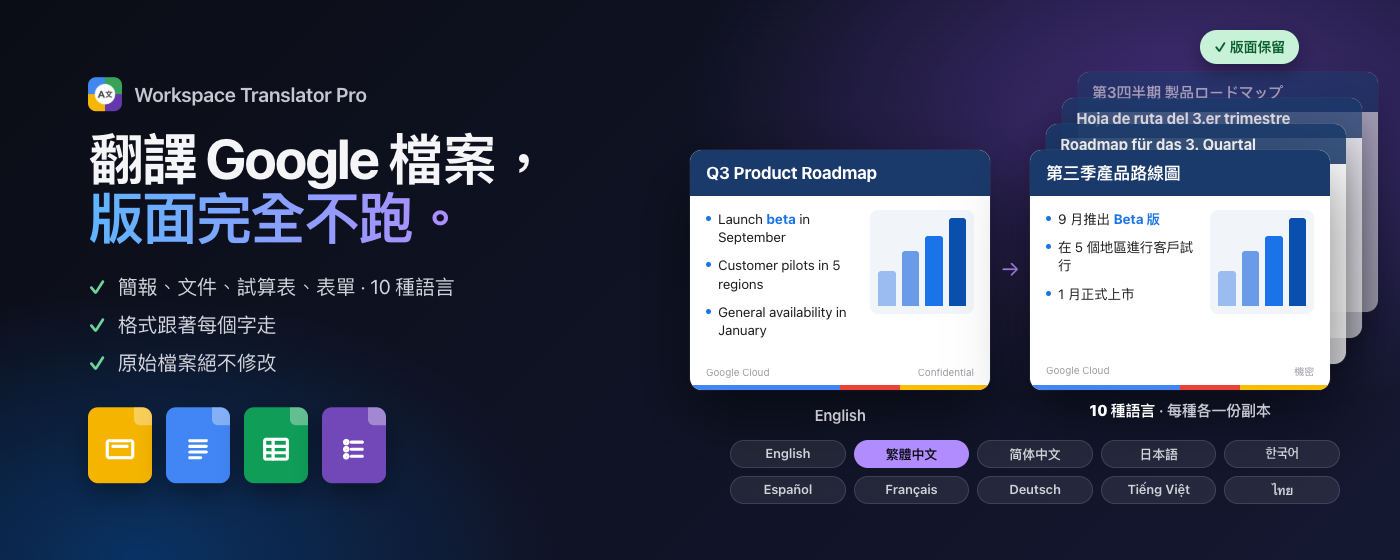
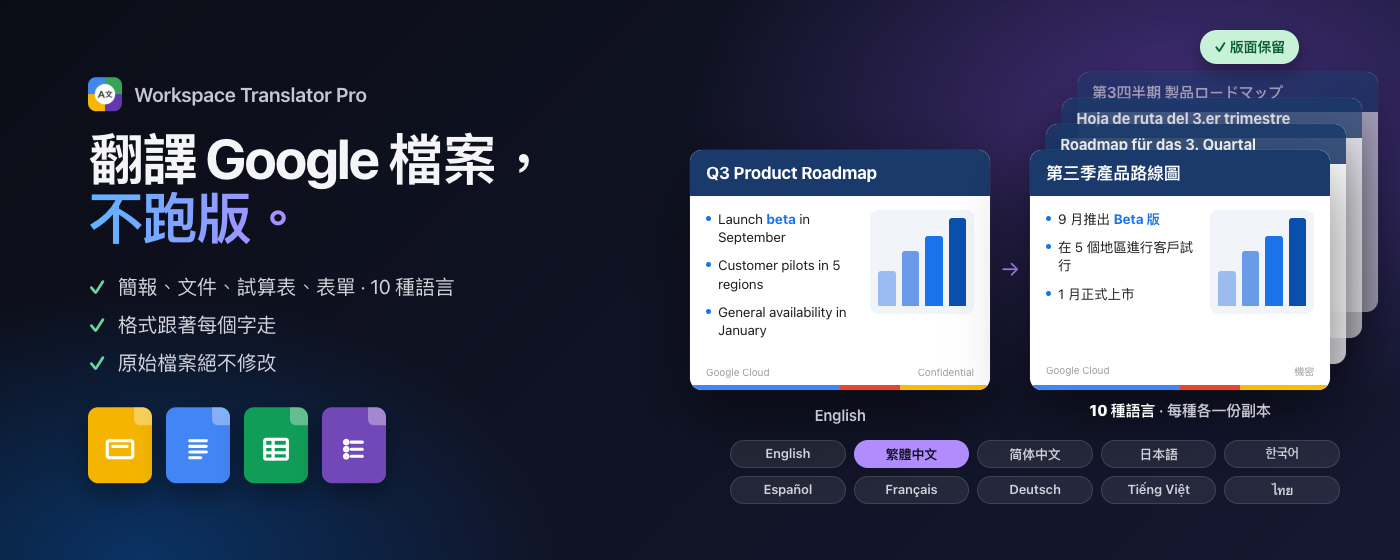
store: 繁中 marquee headline says 不跑版 (no overstatement)

Changed region(s): [[0.0614, 0.3339, 0.3379, 0.4554]]

diff --git a/store-assets/compose.html b/store-assets/compose.html
@@ -175,7 +175,7 @@ const T = {
         pts: ['Slides, Docs, Sheets &amp; Forms · 10 languages', 'Formatting follows every word', 'Your original stays untouched'],
         types: ['Slides', 'Docs', 'Sheets', 'Forms'], tile: 'AI translation · 10 languages · layout kept',
         slide: { name: '繁體中文', title: '第三季產品路線圖', items: ['9 月推出 <em>Beta 版</em>', '在 5 個地區進行客戶試行', '1 月正式上市'], conf: '機密' } },
-  'zh-TW': { back: ['第3四半期 製品ロードマップ', 'Hoja de ruta del 3.er trimestre', 'Roadmap für das 3. Quartal'], multi: '<b>10 種語言</b> · 每種各一份副本', html: 'zh-Hant', h1: '翻譯 Google 檔案，', h2: '版面完全不跑。', kept: '版面保留',
+  'zh-TW': { back: ['第3四半期 製品ロードマップ', 'Hoja de ruta del 3.er trimestre', 'Roadmap für das 3. Quartal'], multi: '<b>10 種語言</b> · 每種各一份副本', html: 'zh-Hant', h1: '翻譯 Google 檔案，', h2: '不跑版。', kept: '版面保留',
         pts: ['簡報、文件、試算表、表單 · 10 種語言', '格式跟著每個字走', '原始檔案絕不修改'],
         types: ['簡報', '文件', '試算表', '表單'], tile: 'AI 翻譯 · 10 種語言 · 版面不跑',
         slide: { name: '繁體中文', title: '第三季產品路線圖', items: ['9 月推出 <em>Beta 版</em>', '在 5 個地區進行客戶試行', '1 月正式上市'], conf: '機密' } },
